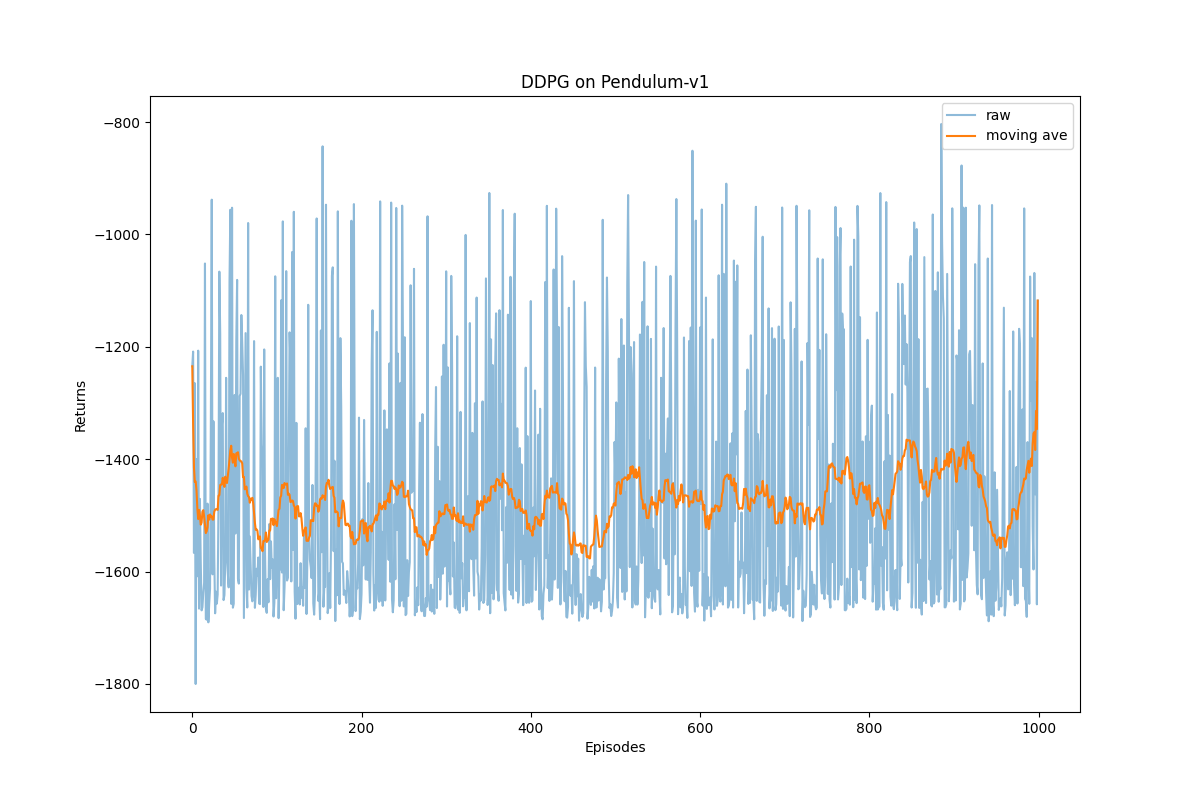
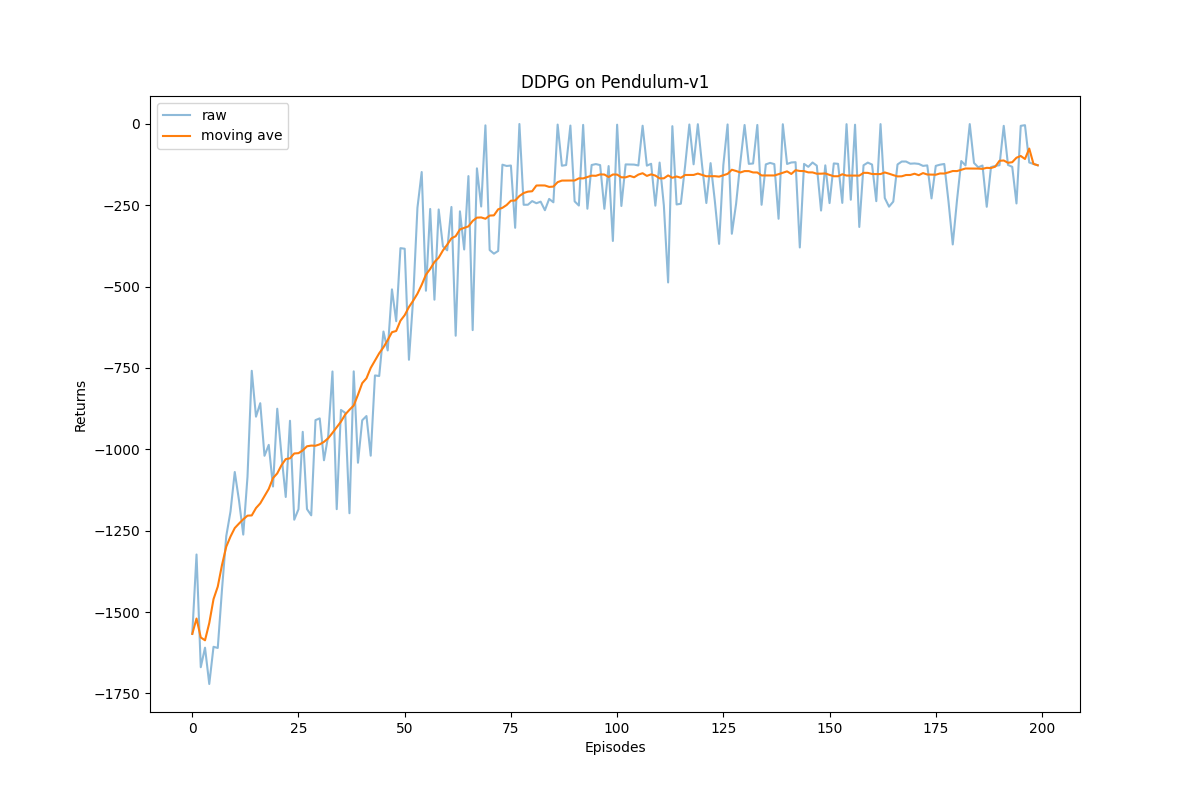
优化DDPG算法中的目标Q值计算，修复critic网络学习率设置，并调整噪声衰减逻辑；更新DDPG结果图像文件。

diff --git a/DDPG/DDPG_pendulum.py b/DDPG/DDPG_pendulum.py
@@ -38,8 +38,8 @@ if __name__ == "__main__":
     state_dim = env.observation_space.shape[0]  # 3
     action_dim = env.action_space.shape[0]     # 1
     action_bound = env.action_space.high[0]    # 2.0
-    actor_lr = 3e-2
-    critic_lr = 3e-2
+    actor_lr = 3e-4
+    critic_lr = 3e-3 # 通常critic学习率比actor大，因为critic需要更精确地估计Q值
     num_episodes = 200
     hidden_dim = 128
     gamma = 0.98
@@ -52,7 +52,7 @@ if __name__ == "__main__":
 
     # 初始化
     replay_buffer = ReplayBuffer(buffer_size)
-    agent = DDPG(state_dim, hidden_dim, action_dim, action_bound, sigma, actor_lr, critic_lr, tau, gamma, device)
+    agent = DDPG(state_dim, hidden_dim, action_dim, action_bound, gamma, tau, sigma, actor_lr, critic_lr, device)
 
     # 预填充回放缓冲区,原理是先随机探索，直到回放缓冲区达到最小容量
     state, _ = env.reset()
@@ -93,12 +93,11 @@ if __name__ == "__main__":
                     agent.update(transition_dict)
                     state = next_state
                     episode_return += reward
-                    # 衰减噪声
-                    agent.sigma = max(0.01, agent.sigma * 0.995)  # 指数衰减至 0.01
                     if terminated or truncated:
                         if terminated:
                             print(f"Episode {num_episodes / 10 * i + i_episode + 1}: Goal reached!")
                         break
+                    agent.sigma = max(0.01, agent.sigma * 0.995)  # 指数衰减至 0.01
 
  
 

diff --git a/DDPG/DDPG_Class.py b/DDPG/DDPG_Class.py
@@ -109,8 +109,8 @@ class DDPG(torch.nn.Module):
        
         # 计算目标Q值，critic网络
         next_q_values = self.target_critic(next_states, self.target_actor(next_states))
-        q_targets = rewards + self.gamma * next_q_values * (1-dones)
-        # q_targets没使用detach()，因为q_targets是目标值，需要计算梯度
+        # .detach() 来切断梯度流，目标Q值被视为一个固定的数值目标
+        q_targets = rewards + self.gamma * next_q_values.detach() * (1 - dones)
         critic_loss = torch.mean(F.mse_loss(self.critic(states, actions), q_targets))
         self.critic_optimizer.zero_grad()
         critic_loss.backward()
